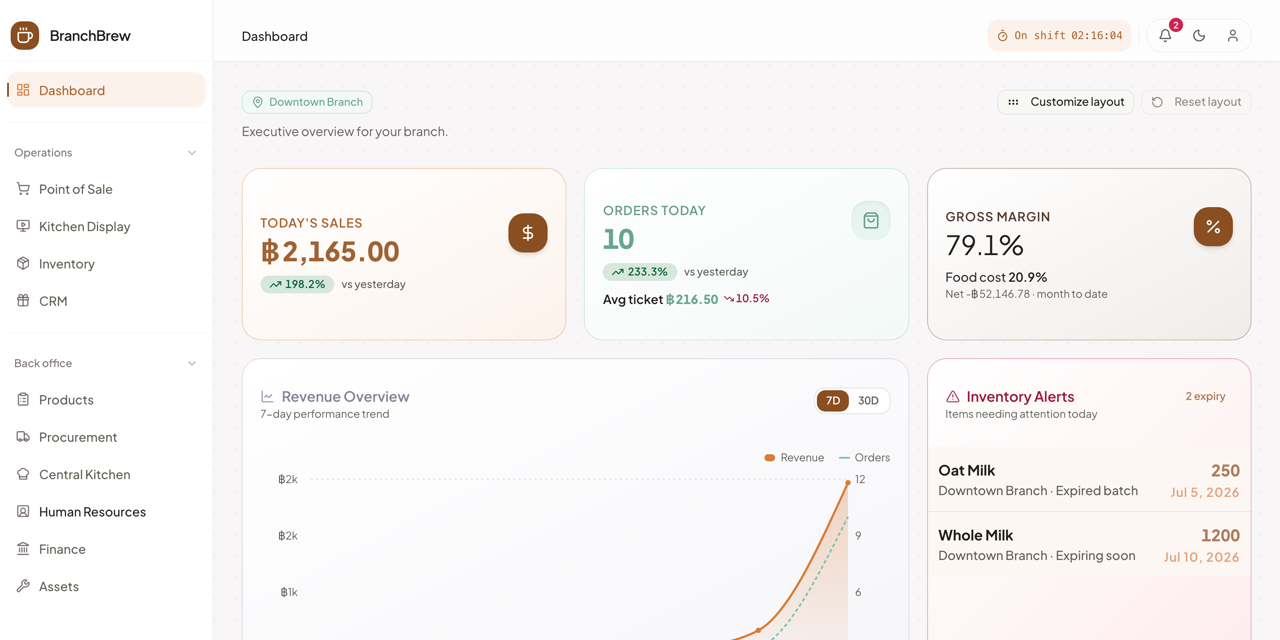
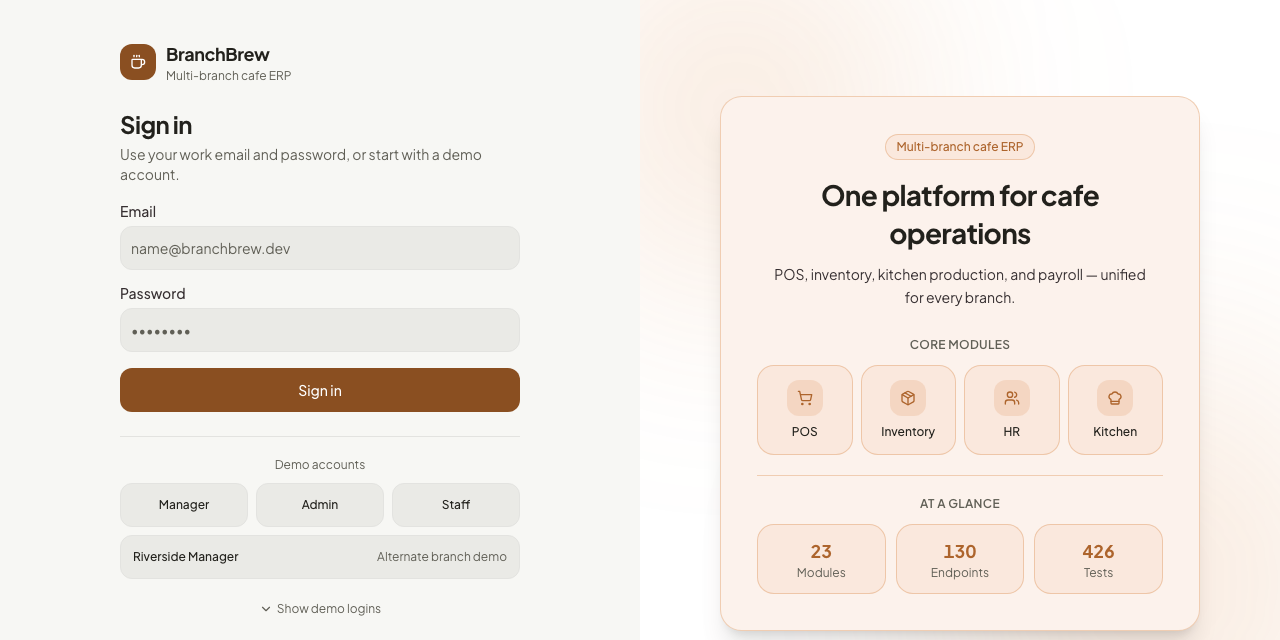
fix(login): sync hero stats with real project numbers

diff --git a/frontend/src/app/(auth)/login/login-hero.tsx b/frontend/src/app/(auth)/login/login-hero.tsx
@@ -26,9 +26,9 @@ export const LOGIN_HERO_BODY =
   "POS, inventory, kitchen production, and payroll — unified for every branch.";
 
 export const LOGIN_HERO_STATS = [
-  { value: "11", label: "Modules" },
-  { value: "4", label: "Demo roles" },
-  { value: "340+", label: "Tests" },
+  { value: "23", label: "Modules" },
+  { value: "130", label: "Endpoints" },
+  { value: "426", label: "Tests" },
 ] as const;
 
 type HeroModule = {